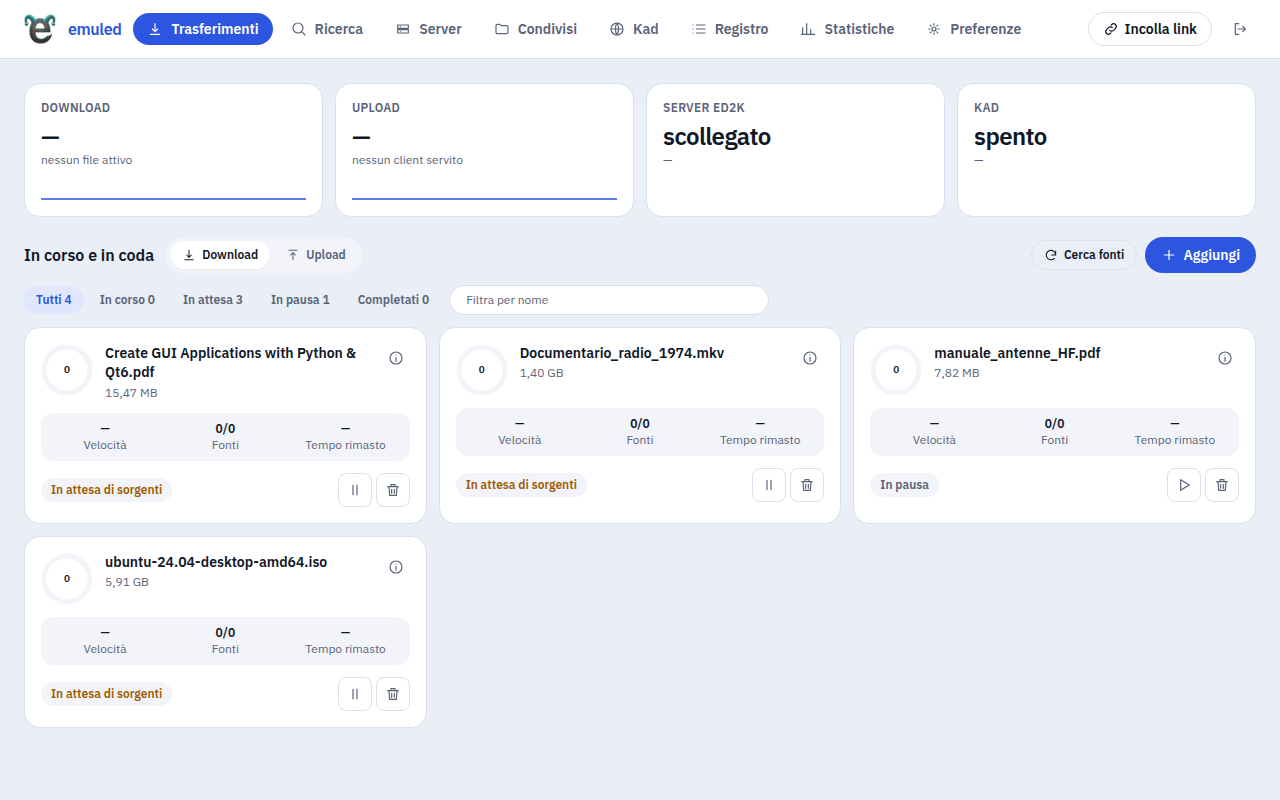
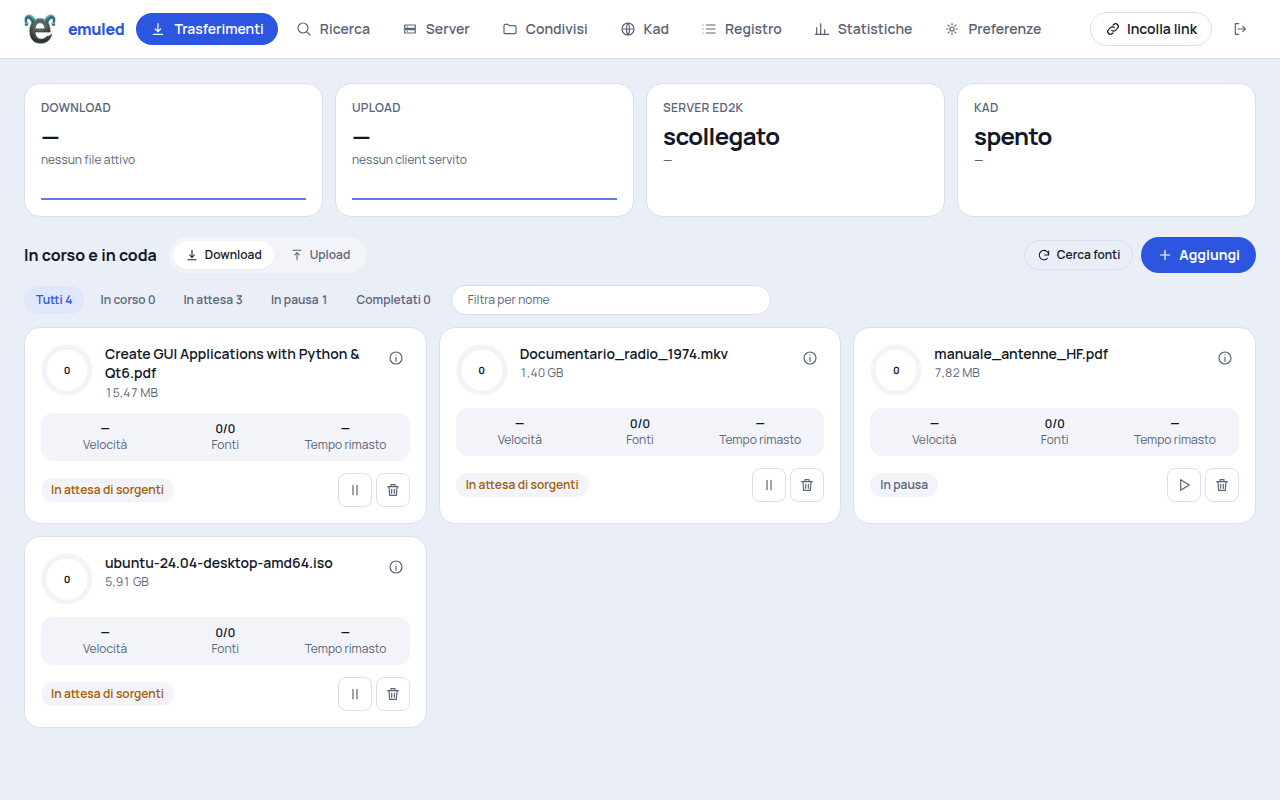
Caratteri propri di ogni template
Console IBM Plex Sans, Cruscotto Manrope, Studio Public Sans, Mobile first DM Sans (piu' IBM Plex Mono): importati dal main.ts del template e dati alle variabili
--font-sans e --font-mono di tokens.css; i file finiscono nella cartella del template. Anteprime rigenerate (Bench 683, 684, 685).

diff --git a/web/templates/console/tokens.css b/web/templates/console/tokens.css
@@ -1,5 +1,5 @@
 /* Token di colore del template (le stesse variabili in ogni template: i componenti comuni li leggono tramite Tailwind). Tema: segue il sistema; data-theme="light"|"dark" sulla radice lo forza. */
-:root {--bg:#f4f6f8;--surface:#ffffff;--sunk:#eceff2;--line:#dde2e7;--fg:#12171d;--mute:#566170;--accent:#0a7c76;--onaccent:#ffffff;--soft:#d9f0ee;--ok:#18794e;--warn:#9a6700;--bad:#c4311f;color-scheme:light;}
+:root {--font-sans:'IBM Plex Sans',ui-sans-serif,system-ui,sans-serif;--font-mono:'IBM Plex Mono',ui-monospace,monospace;--bg:#f4f6f8;--surface:#ffffff;--sunk:#eceff2;--line:#dde2e7;--fg:#12171d;--mute:#566170;--accent:#0a7c76;--onaccent:#ffffff;--soft:#d9f0ee;--ok:#18794e;--warn:#9a6700;--bad:#c4311f;color-scheme:light;}
 @media (prefers-color-scheme: dark) {
   :root:not([data-theme="light"]) {--bg:#0e1216;--surface:#151a20;--sunk:#1b2128;--line:#262e37;--fg:#e7ebef;--mute:#8b96a3;--accent:#38c5bb;--onaccent:#04201e;--soft:#12332f;--ok:#4cc38a;--warn:#e0b04a;--bad:#ff7b6b;color-scheme:dark;}
 }

diff --git a/web/templates/studio/tokens.css b/web/templates/studio/tokens.css
@@ -1,5 +1,5 @@
 /* Token di colore del template (le stesse variabili in ogni template: i componenti comuni li leggono tramite Tailwind). Tema: segue il sistema; data-theme="light"|"dark" sulla radice lo forza. */
-:root {--bg:#efeeea;--surface:#fbfbf9;--sunk:#e6e5e0;--line:#d3d1ca;--fg:#1c1b18;--mute:#68665f;--accent:#a8520a;--onaccent:#ffffff;--soft:#f6e3cf;--ok:#2a7a3b;--warn:#8d6200;--bad:#b3261e;color-scheme:light;}
+:root {--font-sans:'Public Sans',ui-sans-serif,system-ui,sans-serif;--font-mono:'IBM Plex Mono',ui-monospace,monospace;--bg:#efeeea;--surface:#fbfbf9;--sunk:#e6e5e0;--line:#d3d1ca;--fg:#1c1b18;--mute:#68665f;--accent:#a8520a;--onaccent:#ffffff;--soft:#f6e3cf;--ok:#2a7a3b;--warn:#8d6200;--bad:#b3261e;color-scheme:light;}
 @media (prefers-color-scheme: dark) {
   :root:not([data-theme="light"]) {--bg:#131312;--surface:#1a1a18;--sunk:#222220;--line:#302f2c;--fg:#ecebe6;--mute:#9a988f;--accent:#f0a23a;--onaccent:#241500;--soft:#3a2a12;--ok:#6fcf7f;--warn:#e8b84a;--bad:#ff8077;color-scheme:dark;}
 }

diff --git a/web/templates/dashboard/tokens.css b/web/templates/dashboard/tokens.css
@@ -1,5 +1,5 @@
 /* Token di colore del template (le stesse variabili in ogni template: i componenti comuni li leggono tramite Tailwind). Tema: segue il sistema; data-theme="light"|"dark" sulla radice lo forza. */
-:root {--bg:#eaeef6;--surface:#ffffff;--sunk:#f2f4fa;--line:#d9dfec;--fg:#101828;--mute:#5a6478;--accent:#2d56e0;--onaccent:#ffffff;--soft:#e0e7fc;--ok:#14804a;--warn:#a15c00;--bad:#c8321f;color-scheme:light;}
+:root {--font-sans:'Manrope',ui-sans-serif,system-ui,sans-serif;--font-mono:'IBM Plex Mono',ui-monospace,monospace;--bg:#eaeef6;--surface:#ffffff;--sunk:#f2f4fa;--line:#d9dfec;--fg:#101828;--mute:#5a6478;--accent:#2d56e0;--onaccent:#ffffff;--soft:#e0e7fc;--ok:#14804a;--warn:#a15c00;--bad:#c8321f;color-scheme:light;}
 @media (prefers-color-scheme: dark) {
   :root:not([data-theme="light"]) {--bg:#0b0f19;--surface:#121826;--sunk:#182032;--line:#232d44;--fg:#e8ecf6;--mute:#8a95ad;--accent:#7c9bff;--onaccent:#0a1230;--soft:#1b2748;--ok:#4cc38a;--warn:#e6b24f;--bad:#ff7d6e;color-scheme:dark;}
 }

diff --git a/web/templates/mobile/tokens.css b/web/templates/mobile/tokens.css
@@ -1,5 +1,5 @@
 /* Token di colore del template (le stesse variabili in ogni template: i componenti comuni li leggono tramite Tailwind). Tema: segue il sistema; data-theme="light"|"dark" sulla radice lo forza. */
-:root {--bg:#fbf8fa;--surface:#ffffff;--sunk:#f3eef1;--line:#e8dfe4;--fg:#1d1519;--mute:#6b5f66;--accent:#c22a62;--onaccent:#ffffff;--soft:#fbe1ec;--ok:#1c7c4d;--warn:#9a6300;--bad:#c0301f;color-scheme:light;}
+:root {--font-sans:'DM Sans',ui-sans-serif,system-ui,sans-serif;--font-mono:'IBM Plex Mono',ui-monospace,monospace;--bg:#fbf8fa;--surface:#ffffff;--sunk:#f3eef1;--line:#e8dfe4;--fg:#1d1519;--mute:#6b5f66;--accent:#c22a62;--onaccent:#ffffff;--soft:#fbe1ec;--ok:#1c7c4d;--warn:#9a6300;--bad:#c0301f;color-scheme:light;}
 @media (prefers-color-scheme: dark) {
   :root:not([data-theme="light"]) {--bg:#130f12;--surface:#1b1519;--sunk:#241c21;--line:#34292f;--fg:#f1e9ed;--mute:#a2929b;--accent:#ff6b9a;--onaccent:#32061a;--soft:#3a1727;--ok:#55c98f;--warn:#e6b250;--bad:#ff8173;color-scheme:dark;}
 }

diff --git a/web/templates/dashboard/main.ts b/web/templates/dashboard/main.ts
@@ -1,6 +1,12 @@
-// Template "Cruscotto": punto d'ingresso. Tutto cio' che e' comune (dati, schermate, componenti, traduzioni) sta nel kit (src/); qui solo il guscio e la schermata Trasferimenti.
+// Template "Cruscotto": punto d'ingresso. Caratteri: sono di questo template (e finiscono nella sua cartella). Tutto cio' che e' comune (dati, schermate, componenti, traduzioni) sta nel kit (src/); qui solo il guscio e la schermata Trasferimenti.
 import { createTemplateApp } from '@/template'
 import './tokens.css'
+import '@fontsource/manrope/400.css'
+import '@fontsource/manrope/500.css'
+import '@fontsource/manrope/600.css'
+import '@fontsource/manrope/700.css'
+import '@fontsource/manrope/800.css'
+import '@fontsource/ibm-plex-mono/400.css'
 import Shell from './Shell.vue'
 import TransfersView from './TransfersView.vue'
 

diff --git a/web/templates/studio/main.ts b/web/templates/studio/main.ts
@@ -1,6 +1,11 @@
-// Template "Studio": punto d'ingresso. Tutto cio' che e' comune (dati, schermate, componenti, traduzioni) sta nel kit (src/); qui solo il guscio e la schermata Trasferimenti.
+// Template "Studio": punto d'ingresso. Caratteri: sono di questo template (e finiscono nella sua cartella). Tutto cio' che e' comune (dati, schermate, componenti, traduzioni) sta nel kit (src/); qui solo il guscio e la schermata Trasferimenti.
 import { createTemplateApp } from '@/template'
 import './tokens.css'
+import '@fontsource/public-sans/400.css'
+import '@fontsource/public-sans/500.css'
+import '@fontsource/public-sans/600.css'
+import '@fontsource/public-sans/700.css'
+import '@fontsource/ibm-plex-mono/400.css'
 import Shell from './Shell.vue'
 import TransfersView from './TransfersView.vue'
 

diff --git a/web/templates/mobile/main.ts b/web/templates/mobile/main.ts
@@ -1,6 +1,11 @@
-// Template "Mobile first": punto d'ingresso. Tutto cio' che e' comune (dati, schermate, componenti, traduzioni) sta nel kit (src/); qui solo il guscio e la schermata Trasferimenti.
+// Template "Mobile first": punto d'ingresso. Caratteri: sono di questo template (e finiscono nella sua cartella). Tutto cio' che e' comune (dati, schermate, componenti, traduzioni) sta nel kit (src/); qui solo il guscio e la schermata Trasferimenti.
 import { createTemplateApp } from '@/template'
 import './tokens.css'
+import '@fontsource/dm-sans/400.css'
+import '@fontsource/dm-sans/500.css'
+import '@fontsource/dm-sans/600.css'
+import '@fontsource/dm-sans/700.css'
+import '@fontsource/ibm-plex-mono/400.css'
 import Shell from './Shell.vue'
 import TransfersView from './TransfersView.vue'
 

diff --git a/web/templates/console/main.ts b/web/templates/console/main.ts
@@ -1,6 +1,10 @@
-// Template "Console": punto d'ingresso. Tutto cio' che e' comune (dati, schermate, componenti, traduzioni) sta nel kit (src/); qui solo il guscio e la schermata Trasferimenti.
+// Template "Console": punto d'ingresso. Caratteri: sono di questo template (e finiscono nella sua cartella). Tutto cio' che e' comune (dati, schermate, componenti, traduzioni) sta nel kit (src/); qui solo il guscio e la schermata Trasferimenti.
 import { createTemplateApp } from '@/template'
 import './tokens.css'
+import '@fontsource/ibm-plex-sans/400.css'
+import '@fontsource/ibm-plex-sans/500.css'
+import '@fontsource/ibm-plex-sans/600.css'
+import '@fontsource/ibm-plex-mono/400.css'
 import Shell from './Shell.vue'
 import TransfersView from './TransfersView.vue'
 

diff --git a/web/src/style.css b/web/src/style.css
@@ -1,12 +1,8 @@
-@import '@fontsource/ibm-plex-sans/400.css';
-@import '@fontsource/ibm-plex-sans/500.css';
-@import '@fontsource/ibm-plex-sans/600.css';
-@import '@fontsource/ibm-plex-mono/400.css';
 @tailwind base;
 @tailwind components;
 @tailwind utilities;
 
-/* I token di colore stanno in ogni template (templates/<id>/tokens.css): qui solo cio' che vale per tutti. */
+/* Colori e caratteri stanno in ogni template (templates/<id>/tokens.css e main.ts): qui solo cio' che vale per tutti. */
 
 @layer base {
   *:focus-visible { @apply outline outline-2 outline-offset-2 outline-accent; }

diff --git a/web/tailwind.config.js b/web/tailwind.config.js
@@ -7,7 +7,7 @@ export default {
   theme: {
     extend: {
       colors: Object.fromEntries(['bg', 'surface', 'sunk', 'line', 'fg', 'mute', 'accent', 'onaccent', 'soft', 'ok', 'warn', 'bad'].map((n) => [n, c(n)])),
-      fontFamily: { sans: ['IBM Plex Sans', 'ui-sans-serif', 'system-ui', 'sans-serif'], mono: ['IBM Plex Mono', 'ui-monospace', 'monospace'] },
+      fontFamily: { sans: ['var(--font-sans)'], mono: ['var(--font-mono)'] },		// il carattere e' del template (--font-sans e --font-mono in tokens.css)
     },
   },
 }

diff --git a/docs/MANUALE.md b/docs/MANUALE.md
@@ -771,7 +771,7 @@ Ogni file di eMule portato da `upstream/srchybrid/` a `core/` passa per questi p
 
 **Scelta del template nelle Preferenze** (`web/src/stores/templates.ts`, `PrefsView.vue`, Bench 848) — Nelle Preferenze c'è la sezione **Aspetto**: i template trovati (da `GET /api/v1/templates`) come schede con anteprima, nome, versione, autore, descrizione, l'etichetta *Di serie* / *Tuo* / *Di sviluppo* e «In uso» per quello da cui è aperta la pagina; «Usa questo» passa a quel template **rimanendo sulla stessa schermata** (`/t/<id>/#/prefs`). La scelta si ricorda **solo nel browser** (`localStorage`, chiave `emuled.template`); scegliere *Console* toglie la chiave (= nessuna scelta). Per un template che non è di serie (il nome non è riservato) prima compare un **avviso** («un template è un programma che gira nella pagina e può leggere il codice di accesso: usa solo template di cui ti fidi»). In fondo, **Non caricati**: i template che stanno nelle cartelle ma non si possono usare, ciascuno col motivo. «Rileggi le cartelle» chiama `POST /templates/rescan`. L'indirizzo `/?template=console` resta l'uscita di emergenza. Provato con `npm run e2e:templates` (31 controlli: scelta, persistenza, avviso, annullare, emergenza, template rotti, nome di serie rifiutato, template d'esempio funzionante con lo stesso token, template sparito dal disco, anteprime, nessuna violazione della CSP) e con 3 test di unità. *Qui:* **[scritto e provato]**.
 
-**Costruzione dei template e kit comune** (`web/`, Bench 846) — Prima la pagina era *una* applicazione che conteneva A, B, C e D e ne sceglieva uno; ora ogni template di serie è una **applicazione separata**: `web/templates/<id>/` contiene il suo guscio (`Shell.vue`), la sua schermata Trasferimenti, i suoi colori (`tokens.css`), l'ingresso (`main.ts`, `index.html`), il manifest e l'anteprima. Il **kit comune** (`web/src/`: dati, schermate, componenti, traduzioni) viene **incluso in ogni template al momento della costruzione** (non c'è codice condiviso a runtime, quindi nessun SDK da mantenere stabile). `npm run build` costruisce tutti i template in `web/dist/templates/<id>/` (uno `vite build` ciascuno, con `TEMPLATE=<id>`; Tailwind scansiona solo il kit e il template in costruzione); gli indirizzi dei file sono **relativi** (`base: './'`) perché il template sta in `/t/<id>/`. Il logo è importato come modulo (non più `/assets/...` assoluto). `vitest.config.ts` è separato da `vite.config.ts` (che cambia radice per template). Rimosso `?skin=`: la scelta del template sarà nelle Preferenze (task 848). **Attenzione**: `web/dist/` non contiene più `index.html` alla radice: chi usava `web_dir: …/web/dist` passa a `templates_dir: …/web/dist/templates`. *Qui:* **[scritto; provato con i test (vue-tsc, vitest, e2e completo contro /t/console/); il resto dei template al 847 e ai task 683-685]**.
+**Costruzione dei template e kit comune** (`web/`, Bench 846) — Prima la pagina era *una* applicazione che conteneva A, B, C e D e ne sceglieva uno; ora ogni template di serie è una **applicazione separata**: `web/templates/<id>/` contiene il suo guscio (`Shell.vue`), la sua schermata Trasferimenti, i suoi colori (`tokens.css`), l'ingresso (`main.ts`, `index.html`), il manifest e l'anteprima. Il **kit comune** (`web/src/`: dati, schermate, componenti, traduzioni) viene **incluso in ogni template al momento della costruzione** (non c'è codice condiviso a runtime, quindi nessun SDK da mantenere stabile). `npm run build` costruisce tutti i template in `web/dist/templates/<id>/` (uno `vite build` ciascuno, con `TEMPLATE=<id>`; Tailwind scansiona solo il kit e il template in costruzione); gli indirizzi dei file sono **relativi** (`base: './'`) perché il template sta in `/t/<id>/`. Il logo è importato come modulo (non più `/assets/...` assoluto). **I caratteri sono del template**: `main.ts` importa i suoi pacchetti `@fontsource` (Console: IBM Plex Sans; Cruscotto: Manrope; Studio: Public Sans; Mobile first: DM Sans; tutti con IBM Plex Mono per i caratteri fissi) e `tokens.css` dà la famiglia alle variabili `--font-sans` e `--font-mono`, che Tailwind legge; i file `.woff2` finiscono in `dist/templates/<id>/assets/`, quindi a runtime non si scarica niente da internet (la politica di sicurezza dei template lo vieta comunque). Un template di terzi può portare il suo carattere allo stesso modo. `vitest.config.ts` è separato da `vite.config.ts` (che cambia radice per template). Rimosso `?skin=`: la scelta del template sarà nelle Preferenze (task 848). **Attenzione**: `web/dist/` non contiene più `index.html` alla radice: chi usava `web_dir: …/web/dist` passa a `templates_dir: …/web/dist/templates`. *Qui:* **[scritto; provato con i test (vue-tsc, vitest, e2e completo contro /t/console/); il resto dei template al 847 e ai task 683-685]**.
 
 **Sicurezza dei template** (Bench 851) — Un template è codice che gira nella pagina e vede il token. Il demone: serve solo file normali dentro la cartella (al massimo **32 MB** l'uno), non scrive mai nelle cartelle dei template, accetta un manifest da 8 KB al massimo e un'anteprima da 2 MB al massimo, e mette sulle pagine dei template la **Content-Security-Policy** (CSP: un elenco che dice al browser da dove la pagina può caricare cose): richieste di rete, script, stili, font, immagini e media solo dallo **stesso indirizzo** del demone (più `data:` e `blob:`), niente moduli verso altri siti, niente incorniciamento (`frame-ancestors 'none'`), `Referrer-Policy: no-referrer`. Provato nel browser con un template di prova: lo script scritto nella pagina gira, `fetch` e WebSocket verso il demone passano, `fetch`, `<script>` e `<img>` verso un altro indirizzo sono bloccati (violazioni `connect-src`, `script-src-elem`, `img-src`). **Limite onesto**: non impedisce a un template di spostare la pagina verso un altro sito; per questo si installano solo template di cui ci si fida (le Preferenze lo diranno: task 848). Il costo: i template non possono usare font o script presi da internet.
 

diff --git a/web/README.md b/web/README.md
@@ -40,8 +40,7 @@ dettaglio del download; cambiano la cornice, i colori e la schermata Trasferimen
 
 Ogni cartella ha: `Shell.vue` (il guscio), `TransfersView.vue` (la schermata Trasferimenti), `tokens.css` (i colori), `main.ts` (l'ingresso), `index.html`, `template.yaml`
 (il manifest) e `preview.png`. Il **kit comune** (`src/`: dati, schermate, componenti, traduzioni) viene incluso in ogni template al momento della costruzione; a runtime i template
-non condividono niente. I colori sono token CSS (`--bg`, `--accent`, ...): ogni template ridefinisce gli stessi nomi; il resto è solo classi Tailwind. I caratteri sono quelli di IBM Plex
-per tutti (i tre del mockup, Manrope, Public Sans e DM Sans, non sono installati). Codice condiviso fra i gusci: `src/lib/shell.ts` (casella cerca/link, stato ed2k e Kad), `src/lib/transferActions.ts` (annulla, pausa), `src/template.ts` (monta l'applicazione).
+non condividono niente. I colori sono token CSS (`--bg`, `--accent`, ...): ogni template ridefinisce gli stessi nomi; il resto è solo classi Tailwind. **I caratteri sono del template**: Console usa IBM Plex Sans, Cruscotto Manrope, Studio Public Sans, Mobile first DM Sans (più IBM Plex Mono per il testo a caratteri fissi). Si importano in `main.ts` del template (`@fontsource/…`, pacchetti locali) e la famiglia è la variabile `--font-sans` (e `--font-mono`) di `tokens.css`: i file dei caratteri finiscono nella cartella del template e non si scarica niente da fuori. Codice condiviso fra i gusci: `src/lib/shell.ts` (casella cerca/link, stato ed2k e Kad), `src/lib/transferActions.ts` (annulla, pausa), `src/template.ts` (monta l'applicazione).
 
 ## Comandi
 
